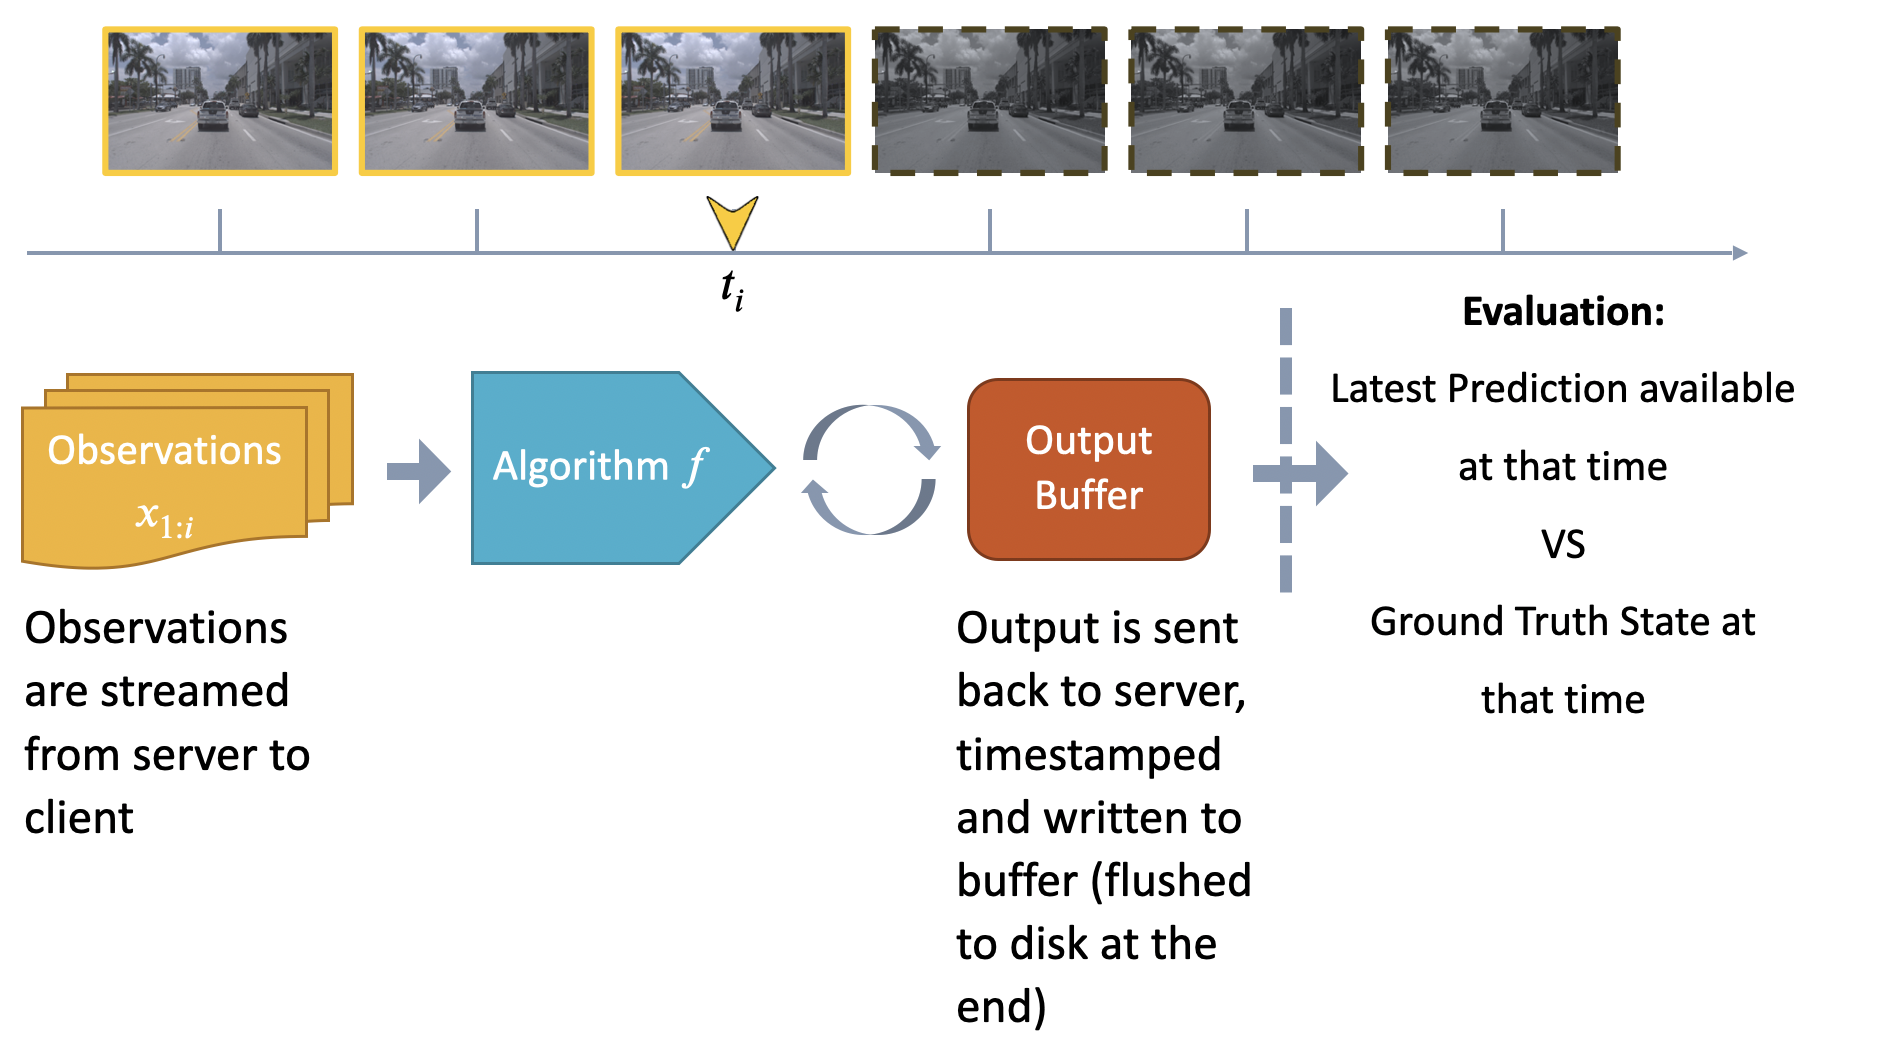
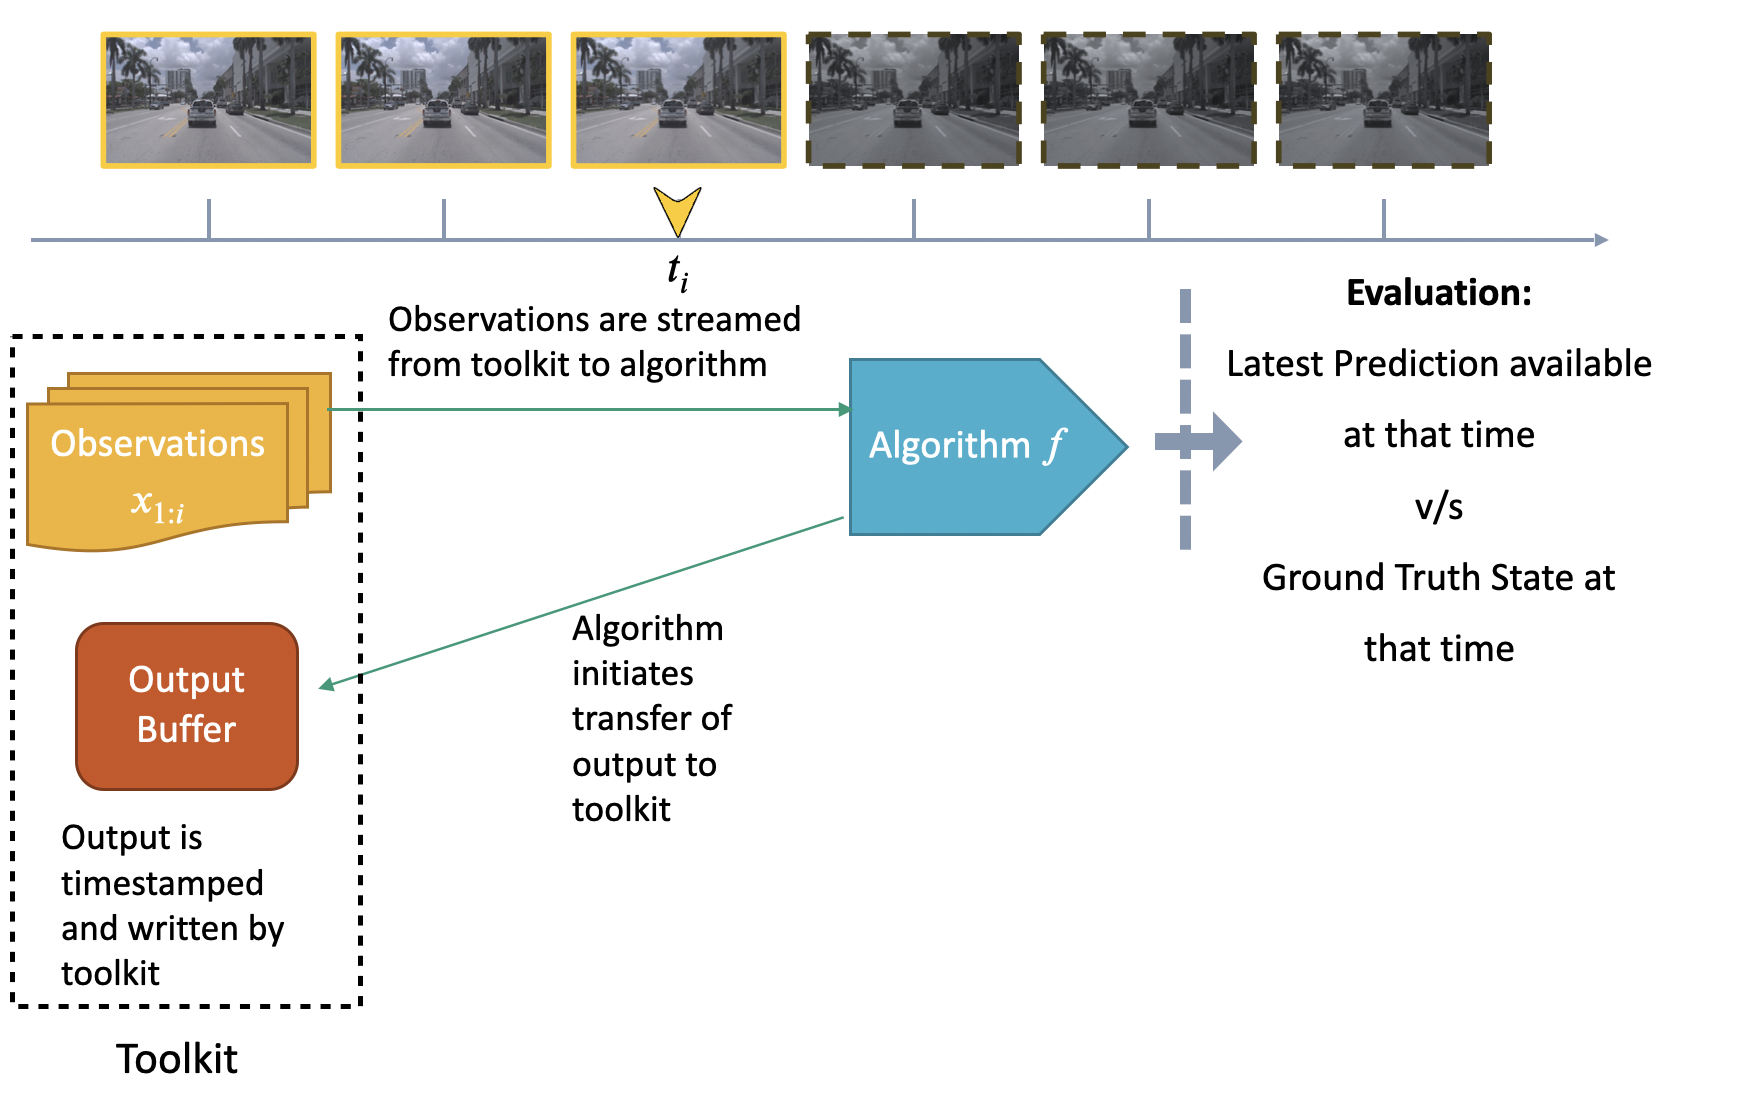
updated figure, readme

diff --git a/doc/code_setup.md b/doc/code_setup.md
@@ -29,7 +29,7 @@ The created virtual environment is named `sap` and you can activate it by
 conda activate sap
 ```
 
-The next step is to manually install `mmcv` and `mmdetection` *within the `sap` environment*. The baseline code has been tested with `mmcv` v1.1.5 and `mmdetection` v2.7.0 and compatibility with other versions is not tested.
+The next step is to manually install `mmcv` and `mmdetection` *within the `sap` environment*. (Make sure `sap_toolkit` has also been installed within the environment). The baseline code has been tested with `mmcv` v1.1.5 and `mmdetection` v2.7.0 and compatibility with other versions is not tested.
 
 ### mmcv installation
 
